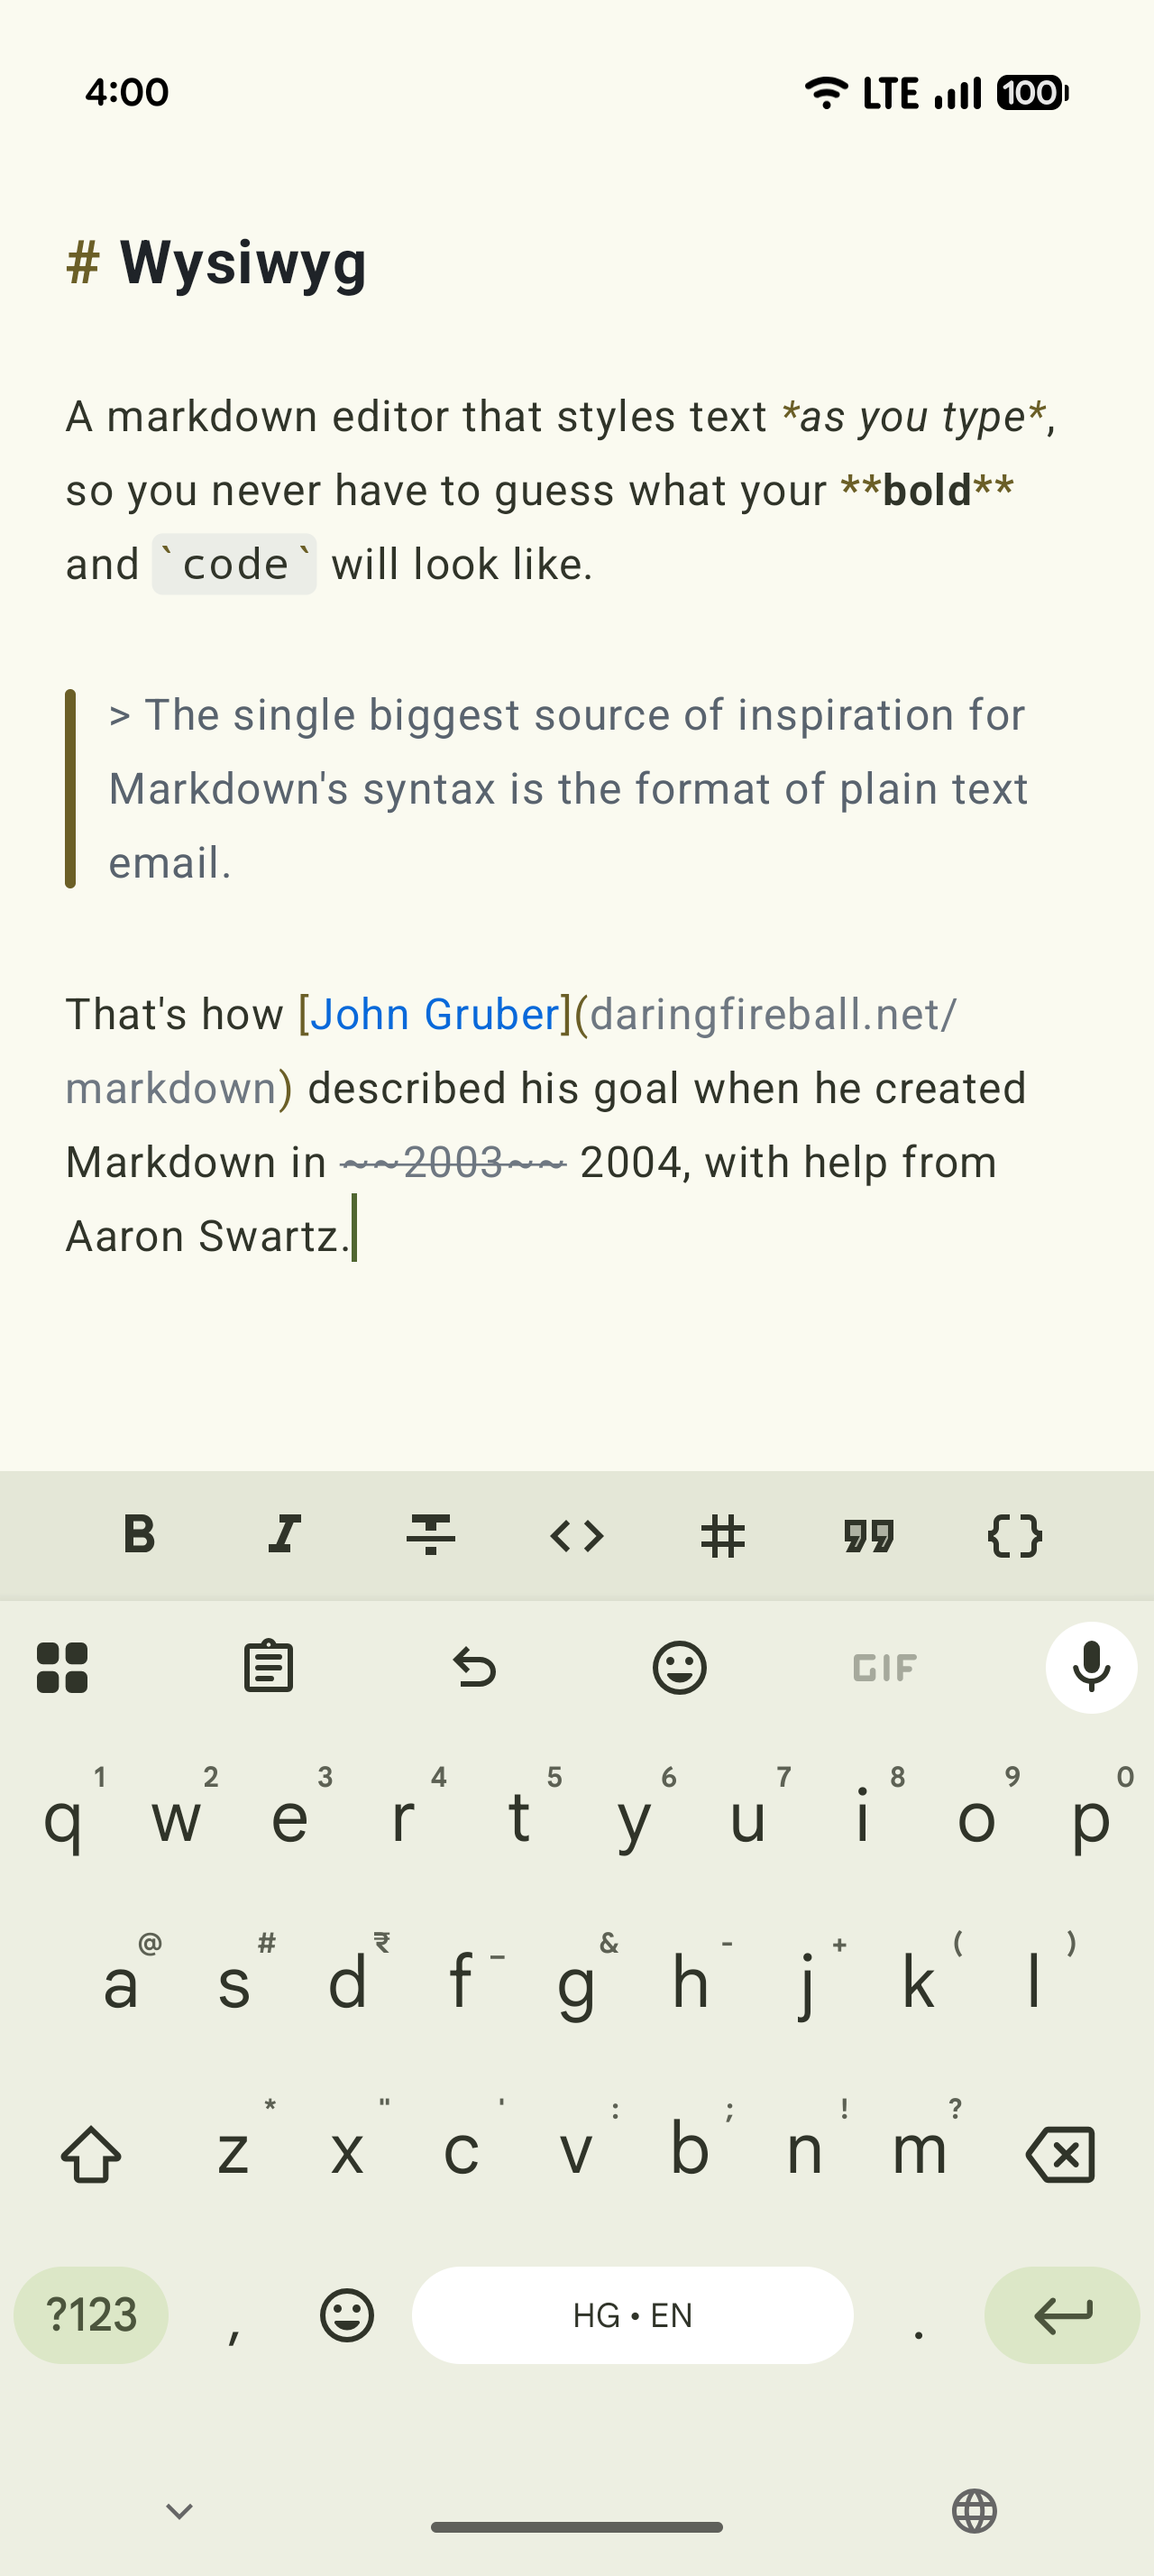
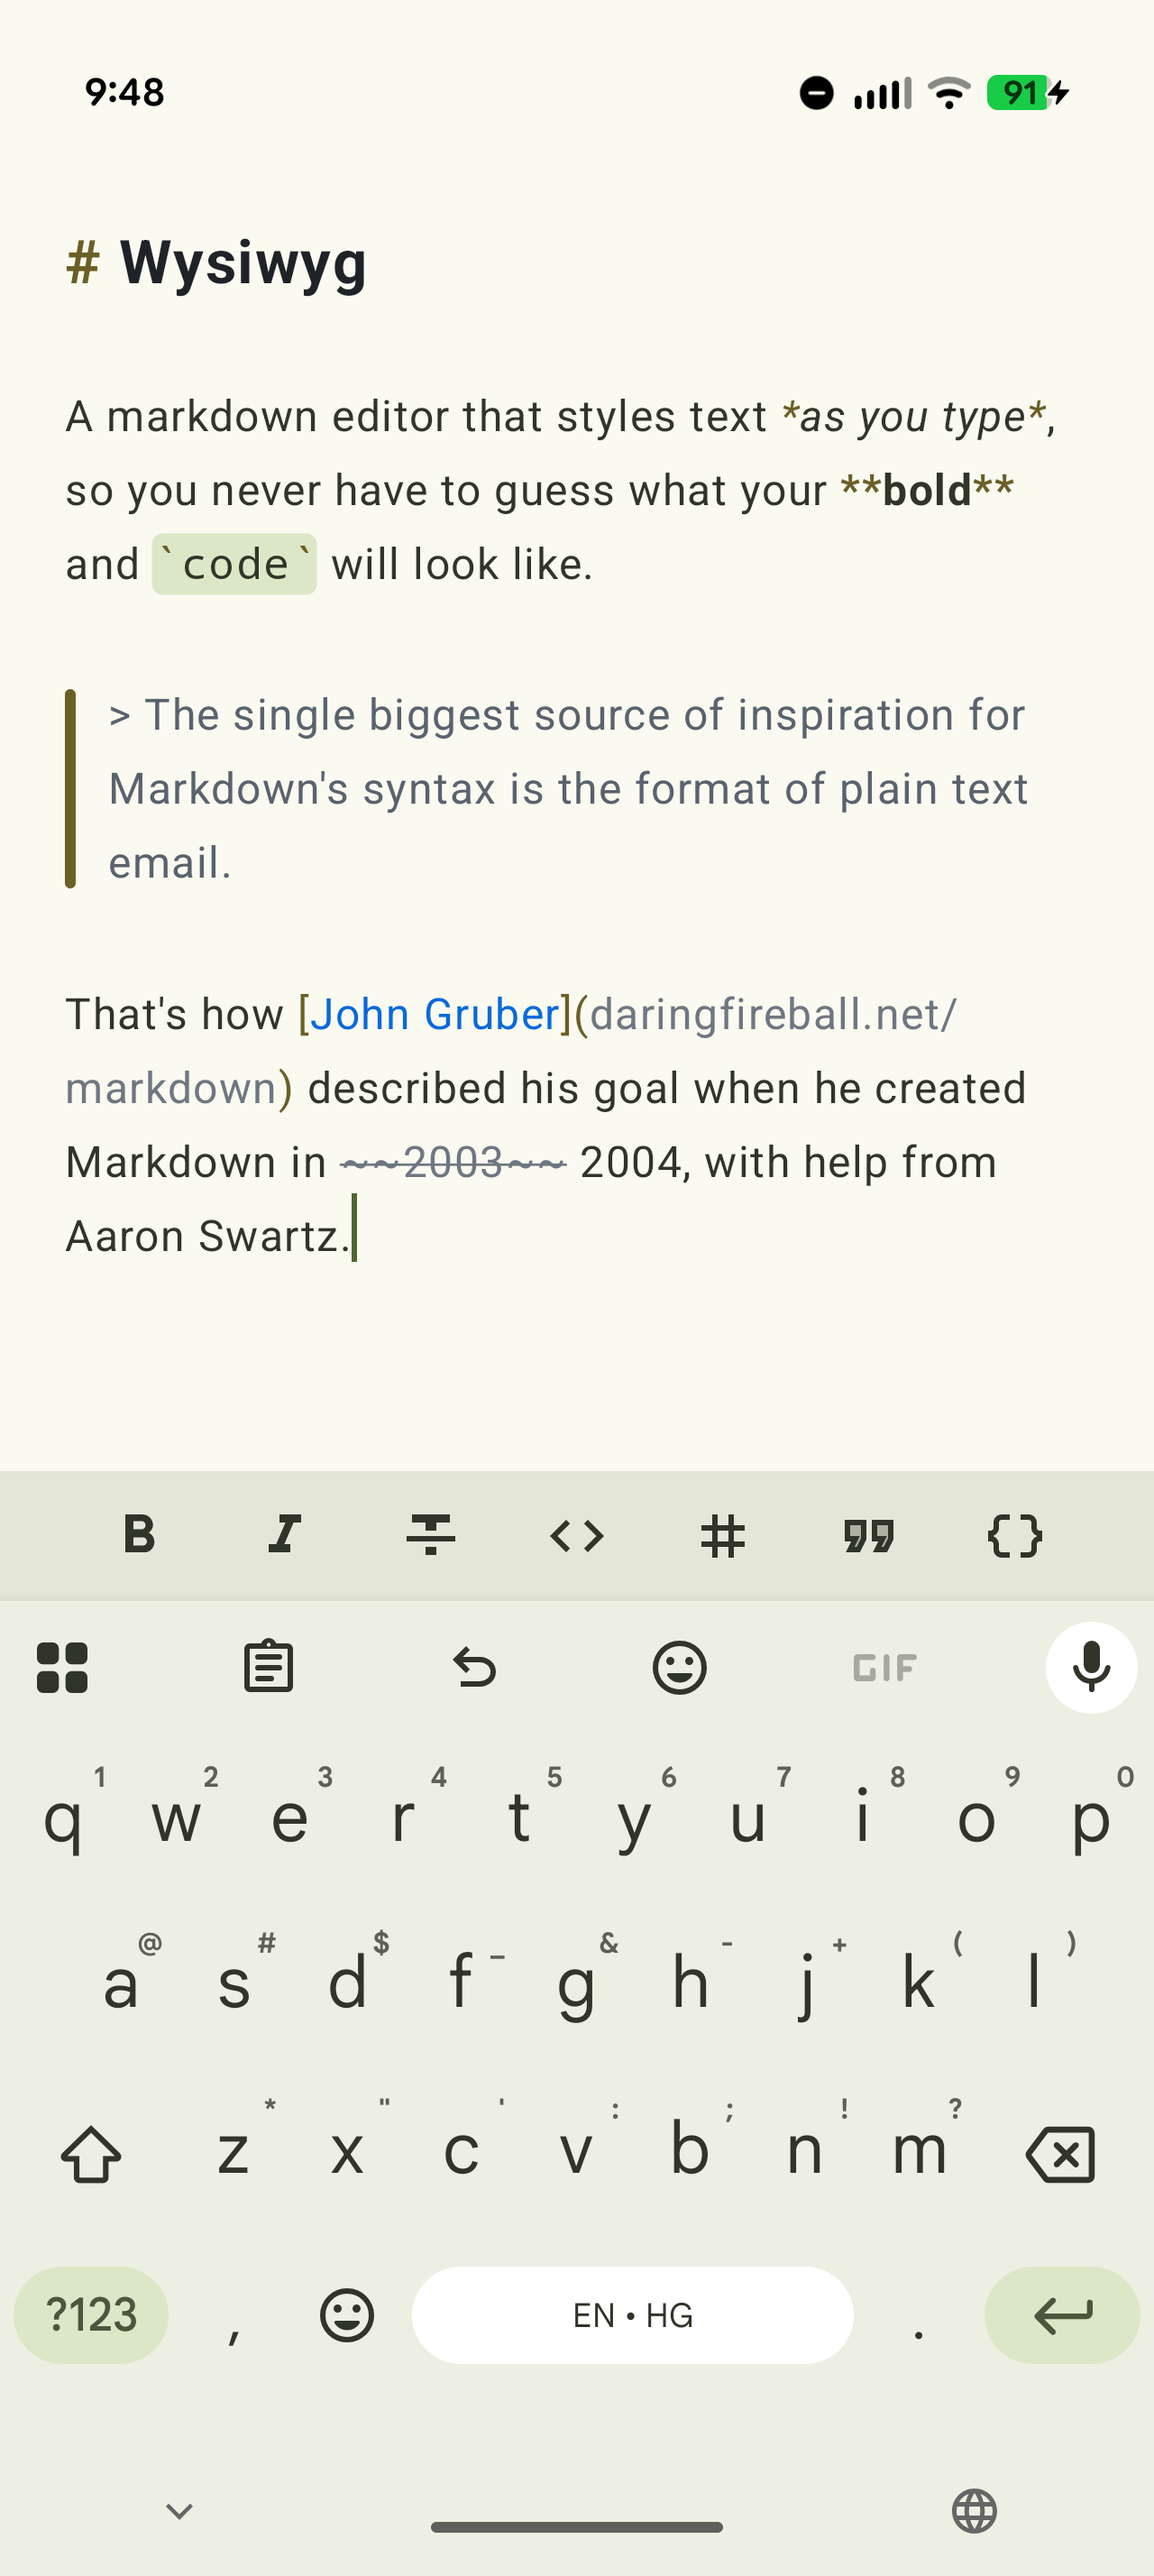
Document auto-format on enter in the readme

diff --git a/wysiwyg/src/test/kotlin/me/saket/wysiwyg/ReadmeImagesTest.kt b/wysiwyg/src/test/kotlin/me/saket/wysiwyg/ReadmeImagesTest.kt
@@ -5,15 +5,21 @@ import androidx.compose.foundation.layout.Box
 import androidx.compose.foundation.layout.PaddingValues
 import androidx.compose.foundation.layout.fillMaxWidth
 import androidx.compose.foundation.layout.heightIn
+import androidx.compose.foundation.text.input.InputTransformation
 import androidx.compose.foundation.text.input.TextFieldState
+import androidx.compose.runtime.Composable
 import androidx.compose.runtime.LaunchedEffect
 import androidx.compose.runtime.remember
 import androidx.compose.ui.Modifier
+import androidx.compose.ui.focus.FocusRequester
+import androidx.compose.ui.focus.focusRequester
 import androidx.compose.ui.graphics.Color
 import androidx.compose.ui.platform.testTag
 import androidx.compose.ui.test.hasTestTag
+import androidx.compose.ui.text.TextRange
 import androidx.compose.ui.text.TextStyle
 import androidx.compose.ui.unit.dp
+import androidx.compose.ui.unit.em
 import androidx.compose.ui.unit.sp
 import app.cash.paparazzi.DeviceConfig
 import app.cash.paparazzi.Paparazzi
@@ -38,7 +44,7 @@ class ReadmeImagesTest {
       val wysiwyg = rememberWysiwyg(
         textState = TextFieldState(
           """
-            |# Shopping list
+            |Task lists are interactive. Tapping a checkbox toggles its marker between `[ ]` and `[x]`.
             |
             |- [ ] Milk
             |- [ ] Eggs
@@ -49,26 +55,15 @@ class ReadmeImagesTest {
           FlexmarkMarkdownParser(dispatcher = Dispatchers.Unconfined)
         },
       )
-      Box(
-        Modifier
-          .fillMaxWidth()
-          .heightIn(min = 300.dp)
-          .background(Color(0xFFFAFAF0))
-      ) {
+      Scaffold {
         WysiwygTextField(
           modifier = Modifier
             .fillMaxWidth()
             .testTag("editor"),
           wysiwyg = wysiwyg,
           contentPadding = PaddingValues(16.dp),
-          theme = WysiwygTheme.GithubLight.copy(
-            markerColor = Color(0xFF6B5F27),
-          ),
-          textStyle = TextStyle(
-            fontSize = 16.sp,
-            lineHeight = 24.sp,
-            letterSpacing = 0.5.sp,
-          ),
+          theme = ReadmeTheme,
+          textStyle = ReadmeTextStyle,
         )
       }
 
@@ -83,5 +78,137 @@ class ReadmeImagesTest {
         }
       }
     }
+  }
+
+  @Test fun `auto complete list items on enter`() {
+    // The editor is seeded with a caption paragraph and an opening "1. ". Each '\n'
+    // below triggers the on-enter formatter, which continues the list with the next number.
+    val typed = "First\nSecond\nThird"
+    val delayPerChar = 150L
+    val textState = TextFieldState(
+      """
+        |Pressing enter continues the list, numbers and all.
+        |
+        |1.${" "}
+      """.trimMargin()
+    )
+
+    // The typing coroutine lags the gif's frame clock, so give the window enough
+    // headroom to finish typing and hold on the completed list for a beat.
+    paparazzi.gif(end = 4_000, fps = 20) {
+      val wysiwyg = rememberWysiwyg(
+        textState = textState,
+        parser = remember {
+          FlexmarkMarkdownParser(dispatcher = Dispatchers.Unconfined)
+        },
+      )
+      val focusRequester = remember { FocusRequester() }
+
+      Scaffold {
+        WysiwygTextField(
+          modifier = Modifier
+            .fillMaxWidth()
+            .focusRequester(focusRequester)
+            .testTag("editor"),
+          wysiwyg = wysiwyg,
+          contentPadding = PaddingValues(16.dp),
+          theme = ReadmeTheme,
+          textStyle = ReadmeTextStyle,
+        )
+      }
+
+      LaunchedEffect(Unit) {
+        focusRequester.requestFocus()
+        textState.type(typed, wysiwyg.inputTransformation, delayPerChar)
+      }
+    }
+  }
+
+  @Test fun `auto close code blocks on enter`() {
+    // After the caption paragraph, pressing enter right after an opening code fence
+    // inserts the closing fence below and parks the cursor between them, ready for code.
+    val typed = "```kotlin\nfun helloWorld()"
+    val delayPerChar = 120L
+    val textState = TextFieldState(
+      """
+        |Pressing enter closes the code block for you.
+        |
+        |
+      """.trimMargin()
+    )
+
+    paparazzi.gif(end = 5_000, fps = 20) {
+      val wysiwyg = rememberWysiwyg(
+        textState = textState,
+        parser = remember {
+          FlexmarkMarkdownParser(dispatcher = Dispatchers.Unconfined)
+        },
+      )
+      val focusRequester = remember { FocusRequester() }
+
+      Scaffold {
+        WysiwygTextField(
+          modifier = Modifier
+            .fillMaxWidth()
+            .focusRequester(focusRequester)
+            .testTag("editor"),
+          wysiwyg = wysiwyg,
+          contentPadding = PaddingValues(16.dp),
+          theme = ReadmeTheme,
+          textStyle = ReadmeTextStyle,
+        )
+      }
+
+      LaunchedEffect(Unit) {
+        focusRequester.requestFocus()
+        textState.type(typed, wysiwyg.inputTransformation, delayPerChar)
+      }
+    }
+  }
+
+  /** Types [text] one character at a time at the cursor, running [inputTransformation] per keystroke. */
+  private suspend fun TextFieldState.type(
+    text: String,
+    inputTransformation: InputTransformation,
+    delayPerChar: Long,
+  ) {
+    for (nextChar in text) {
+      edit {
+        val cursor = selection.start
+        replace(cursor, cursor, nextChar.toString())
+        selection = TextRange(cursor + 1)
+        with(inputTransformation) {
+          transformInput()
+        }
+      }
+      delay(delayPerChar)
+    }
+  }
+
+  @Composable
+  private fun Scaffold(
+    content: @Composable () -> Unit,
+  ) {
+    Box(
+      Modifier
+        .fillMaxWidth()
+        .heightIn(min = 300.dp)
+        .background(Color(0xFFFAFAF0))
+    ) {
+      content()
+    }
+  }
+
+  companion object {
+    val ReadmeTextStyle = TextStyle(
+      fontSize = 18.sp,
+      lineHeight = 1.7.em,
+      letterSpacing = 0.5.sp,
+    )
+
+    val ReadmeTheme = WysiwygTheme.GithubLight.copy(
+      markerColor = Color(0xFF6B5F27),
+      codeBackground = Color(0xFFDCE7C7),
+    )
   }
 }

diff --git a/sample/src/main/kotlin/me/saket/wysiwyg/sample/SampleActivity.kt b/sample/src/main/kotlin/me/saket/wysiwyg/sample/SampleActivity.kt
@@ -17,6 +17,7 @@ import androidx.compose.material3.MaterialTheme
 import androidx.compose.material3.Surface
 import androidx.compose.material3.dynamicDarkColorScheme
 import androidx.compose.material3.dynamicLightColorScheme
+import androidx.compose.material3.surfaceColorAtElevation
 import androidx.compose.runtime.Composable
 import androidx.compose.runtime.LaunchedEffect
 import androidx.compose.runtime.remember
@@ -60,6 +61,7 @@ private fun WysiwygEditor(
     initialText =
       """
         |# Wysiwyg
+        |
         |A markdown editor that styles text *as you type*, so you never have to guess what your **bold** and `code` will look like.
         |
         |> The single biggest source of inspiration for Markdown's syntax is the format of plain text email.
@@ -99,6 +101,7 @@ private fun WysiwygEditor(
         ),
         theme = WysiwygTheme.Github.copy(
           markerColor = MaterialTheme.colorScheme.tertiary,
+          codeBackground = MaterialTheme.colorScheme.secondaryContainer,
         ),
       )
     }

diff --git a/README.md b/README.md
@@ -41,13 +41,16 @@ WysiwygTextField(
 
 #### Interactive checkboxes
 
-<img src="wysiwyg/src/test/snapshots/videos/me.saket.wysiwyg_ReadmeImagesTest_checkboxes.png" width="300" />
+<img src="wysiwyg/src/test/snapshots/videos/me.saket.wysiwyg_ReadmeImagesTest_checkboxes.png" width="400" />
 
-Task lists are interactive. Tapping a checkbox toggles its marker in the text between `[ ]` and `[x]`.
+#### Auto-format on enter
+
+| List continuation                                                                                                                   | Code blocks                                                                                                                       |
+|-------------------------------------------------------------------------------------------------------------------------------------|-----------------------------------------------------------------------------------------------------------------------------------|
+| <img src="wysiwyg/src/test/snapshots/videos/me.saket.wysiwyg_ReadmeImagesTest_auto_complete_list_items_on_enter.png" width="400" /> | <img src="wysiwyg/src/test/snapshots/videos/me.saket.wysiwyg_ReadmeImagesTest_auto_close_code_blocks_on_enter.png" width="400" /> | 
 
 TODO: document
 - Formatting actions
-- Auto-format on enter
 - Customization
   - theme
   - Markdown parser
